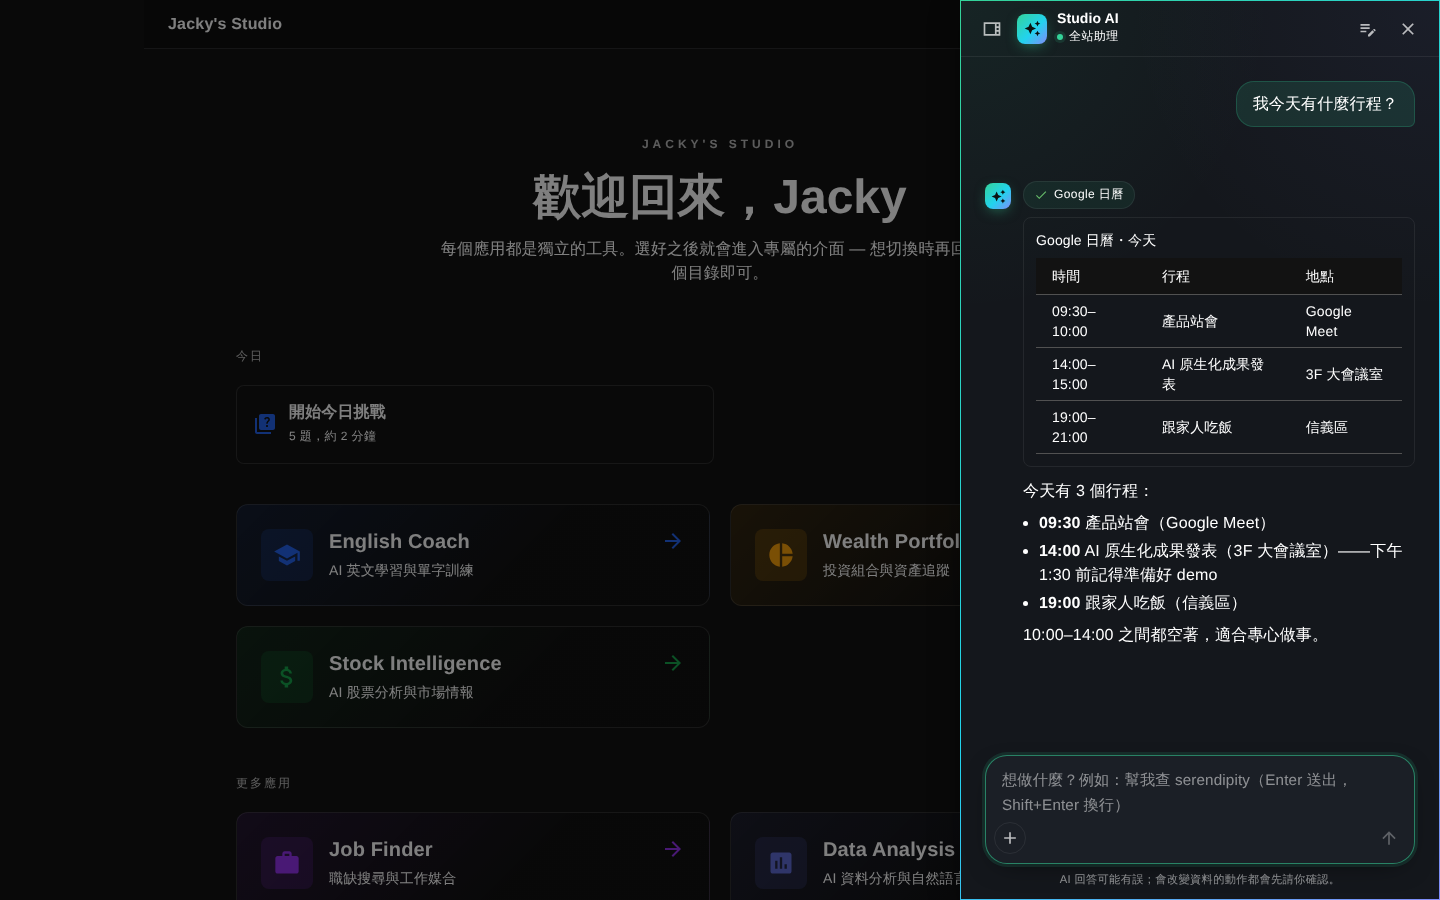
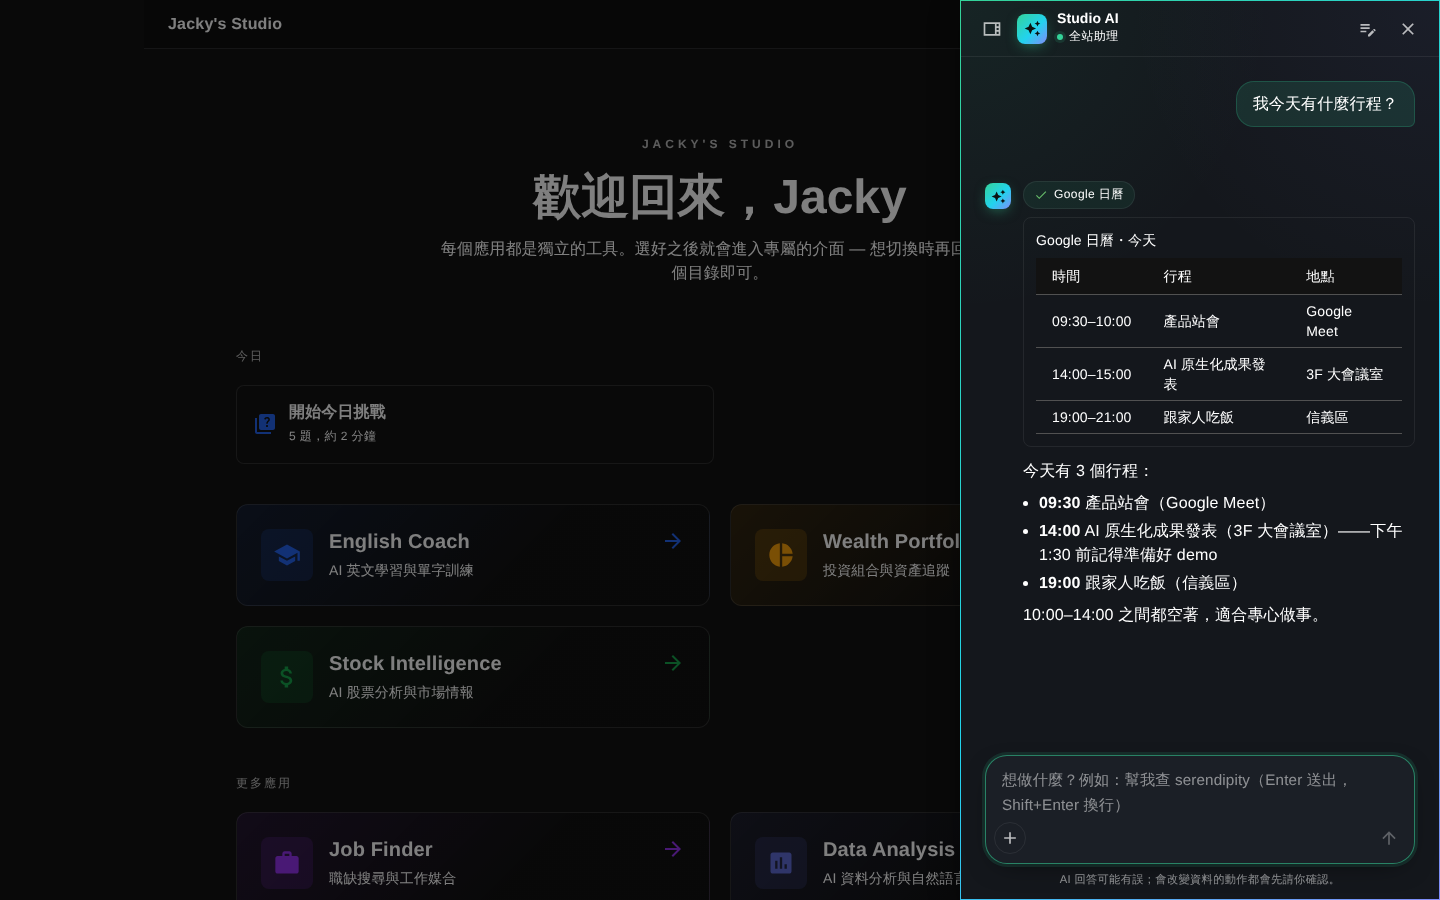
feat(chat): table 卡片的欄位可以 nowrap（Google 日曆的時間欄不再斷行）；第 7 輪的決策、FOR_JACKY、NEXT、PLAN、SHOWCASE 更新
Claude-Session: https://claude.ai/code/session_01TAYBdTx9BamhbvCMxUfzVg

diff --git a/jackyaiapp.client/src/components/aiChat/cards/toolCard.ts b/jackyaiapp.client/src/components/aiChat/cards/toolCard.ts
@@ -11,10 +11,18 @@ import type { ComponentType } from 'react';
 
 export type CardCell = string | number | null;
 
+export interface TableColumn {
+  key: string;
+  label: string;
+  numeric: boolean;
+  nowrap?: true;
+}
+
 export interface TableCard {
   kind: 'table';
   title: string | null;
-  columns: { key: string; label: string; numeric: boolean }[];
+  /** `nowrap`: a cell that reads wrong broken over lines (a time range). */
+  columns: TableColumn[];
   rows: Record<string, CardCell>[];
   /** The rows the tool found, when more than it sent. */
   totalRows: number | null;
@@ -77,8 +85,9 @@ function parseTable(raw: Record<string, unknown>): TableCard | null {
       key: text(c.key, 100),
       label: text(c.label, 100) ?? text(c.key, 100),
       numeric: c.numeric === true,
+      ...(c.nowrap === true ? { nowrap: true as const } : {}),
     }))
-    .filter((c): c is { key: string; label: string; numeric: boolean } => c.key !== null)
+    .filter((c): c is TableColumn => c.key !== null)
     .slice(0, CARD_LIMITS.columns);
   if (columns.length === 0) return null;
   const rows = raw.rows

diff --git a/jackyaiapp.client/src/components/aiChat/cards/toolCard.test.ts b/jackyaiapp.client/src/components/aiChat/cards/toolCard.test.ts
@@ -1,6 +1,6 @@
 import { describe, expect, it } from 'vitest';
 
-import { CARD_LIMITS, parseToolCard, safeHref } from './toolCard';
+import { CARD_LIMITS, parseToolCard, safeHref, type TableCard } from './toolCard';
 
 describe('parseToolCard: a table', () => {
   const raw = {
@@ -31,6 +31,20 @@ describe('parseToolCard: a table', () => {
       ],
       totalRows: 40,
     });
+  });
+
+  it('keeps a column that should not wrap, and only a true one', () => {
+    const card = parseToolCard({
+      ...raw,
+      columns: [
+        { key: 'region', label: '地區', nowrap: true },
+        { key: 'revenue', label: '營收', nowrap: 'yes' },
+      ],
+    });
+    expect((card as TableCard).columns).toEqual([
+      { key: 'region', label: '地區', numeric: false, nowrap: true },
+      { key: 'revenue', label: '營收', numeric: false },
+    ]);
   });
 
   it('turns anything but text and numbers into an empty cell', () => {

diff --git a/jackyaiapp.client/src/components/aiChat/cards/TableCardView.tsx b/jackyaiapp.client/src/components/aiChat/cards/TableCardView.tsx
@@ -41,7 +41,10 @@ export default function TableCardView({ card }: { card: TableCard }) {
                   <TableCell
                     key={c.key}
                     align={c.numeric ? 'right' : 'left'}
-                    sx={c.numeric ? { fontVariantNumeric: 'tabular-nums' } : undefined}
+                    sx={{
+                      ...(c.numeric && { fontVariantNumeric: 'tabular-nums' }),
+                      ...(c.nowrap && { whiteSpace: 'nowrap' }),
+                    }}
                   >
                     {show(row[c.key])}
                   </TableCell>

diff --git a/JackyAIApp.Server.Tests/Services/Connectors/GoogleCalendarToolTests.cs b/JackyAIApp.Server.Tests/Services/Connectors/GoogleCalendarToolTests.cs
@@ -114,6 +114,8 @@ namespace JackyAIApp.Server.Tests.Services.Connectors
             Assert.False(result.IsError);
             var card = CardJson(result);
             Assert.Equal("table", card.GetProperty("kind").GetString());
+            // A time range reads wrong broken over two lines in the assistant's narrow sheet.
+            Assert.True(card.GetProperty("columns")[0].GetProperty("nowrap").GetBoolean());
             var rows = card.GetProperty("rows").EnumerateArray()
                 .Select(r => (r.GetProperty("when").GetString()!, r.GetProperty("title").GetString()!, r.GetProperty("location").GetString()!))
                 .ToList();

diff --git a/JackyAIApp.Server/Services/Connectors/Google/GoogleCalendarTool.cs b/JackyAIApp.Server/Services/Connectors/Google/GoogleCalendarTool.cs
@@ -112,7 +112,7 @@ namespace JackyAIApp.Server.Services.Connectors.Google
             title = $"Google 日曆・{range.Label}",
             columns = new object[]
             {
-                new { key = "when", label = "時間" },
+                new { key = "when", label = "時間", nowrap = true },
                 new { key = "title", label = "行程" },
                 new { key = "location", label = "地點" },
             },

diff --git a/docs/ai-native/NEXT.md b/docs/ai-native/NEXT.md
@@ -1,6 +1,6 @@
 # NEXT — 下一輪從最上面開始
 
-> 設計已定稿（PLAN.md）。M1、M2 完成；M3 大致完成（Studio AI、本站工具、MCP OAuth、Notion／Linear 目錄）。接下來是 M4（擴充與貢獻）與打磨；11/4 起功能凍結。
+> 設計已定稿（PLAN.md）。M1–M3 完成；M4 必要項目完成（第 7 輪：TestKit、Google 日曆、step-up、確認卡「以後直接執行」、rug pull 防護）。接下來是 M4 延伸與打磨；11/4 起功能凍結。
 
 ## 0. 每輪固定動作
 
@@ -11,20 +11,27 @@
 
 ## 1. CI 狀態
 
-- 第 6 輪最後一次含程式碼的 push 是「確認卡顯示工具自己的說明」（見 PROGRESS 第 6 輪的 run id）。開工時照 §0 看最新一次。
+- 第 7 輪最後一次含程式碼的 push 是「防 rug pull」（見 PROGRESS 第 7 輪的 run id）。開工時照 §0 看最新一次。
 
 ## 2. 下一步（依序）
 
-1. **M4：TestKit 與貢獻樣板**（design/07）：把測試裡重複的假 MCP server（`McpToolClientTests.FakeMcpServer`）與假網站（`McpOAuthDiscoveryTests.FakeWeb`）整理成 `TestHelpers/FakeMcpServer`、`TestHelpers/FakeAuthorizationServer`（一個 handler 同時扮 MCP server 401 + PRM + AS + token 端點），寫一個「完整 OAuth 流程」的整合測試（probe → create → authorize → callback → 列工具 → refresh），並在 CONTRIBUTING-CONNECTORS 提到它。
-2. **Google Calendar 原生範例（M4）**：沿用既有 Google 帳號連線（`ConnectorService` 的 token），做一個 `ISiteTool` 型的原生 connector（列出今天／這週行程，唯讀）。先確認既有 Google 連線的 scope 是否含 Calendar（`appsettings.json` 的 `Connectors:Providers:Google:Scopes`）；不含的話只做框架與假實作，FOR_JACKY 註記要加 scope。
-3. **403 step-up**（MCP 授權，可選）：工具呼叫回 403 `insufficient_scope` 時把 `scope` 併進 grant 並標 NeedsAuth，重新授權時帶新 scope。需要從 `McpToolClient` 拿到 `WWW-Authenticate`（SDK 的例外沒有 header：可能要在 `IMcpHttpHandlerSource` 包一層 DelegatingHandler 記下最後一個 401/403 的 header）。
-4. **打磨**：Studio 在 /data-analysis 以外問資料問題時的引導；`ConnectorDetailDrawer` 的「測試連線」用 playwright 走一次；/connectors 的 OAuth 回呼訊息（現在是既有的英文訊息）考慮對 AI connector 顯示中文。
-5. **SHOWCASE 定稿**（11/4–11/5）：補 Data Analysis 存 dashboard 的確認卡截圖、手機截圖、最終統計（輪數、commit 數）。
+M4 的必要項目都完成了（TestKit、Google 日曆原生範例、CONTRIBUTING、CLAUDE.md），403 step-up 也做了。剩下的是 M4 延伸（挑最驚艷的一個做深）與打磨；11/4 起功能凍結。
+
+1. **本站對外的 MCP server（M4 延伸，建議先做）**：讓 Claude Desktop／Cursor／ChatGPT 直接用 Jacky Studio 的工具（`ISiteTool` 全部：查字典、加單字、學習進度、投資組合、Google 日曆）——「網站本身就是 MCP server」。
+   - 先研究：`ModelContextProtocol.AspNetCore`（官方 SDK 的 server 端，版本要跟 csproj 裡的 `ModelContextProtocol.Core` 一致；本機不能 restore，加套件後靠 CI 驗證，cscheck 抓不到它的型別）。不能用就自己寫最小 Streamable HTTP server（`initialize`、`tools/list`、`tools/call`，JSON 回應、無 session）。
+   - 認證：個人存取 token（PAT，使用者在 /connectors 產生、只顯示一次、存 SHA-256 雜湊；新表要手寫 migration＋Designer＋snapshot），`Authorization: Bearer`。之後再考慮 OAuth（要自己當授權伺服器，太大）。
+   - 安全：寫入型工具在外部 client 上沒有本站的確認卡 → **只開放讀取型工具**，或寫入要求 PAT 有 write 範圍；usage 照 `UsageCosts`；每個 PAT 可撤銷、記最後使用時間。
+   - UX：/connectors 新增一區「讓其他 AI 使用本站」：產生 token、複製設定（Claude Desktop 的 JSON、`claude mcp add` 指令）。
+2. **或：MCP Apps**（`ui://` 資源在 sandboxed iframe 顯示）：比較炫但規格新、client 端複雜（postMessage bridge、CSP）。上面那項做完還有時間再評估。
+3. **打磨**：
+   - playwright 走一次 /connectors：「本站功能」下多了「Google 日曆」組、`ConnectorDetailDrawer` 的「測試連線」、OAuth 回呼的中文訊息（`?success=true&provider=Notion&kind=mcp`）。
+   - Studio 在 /data-analysis 以外問資料問題時的引導（提示已說到 /data-analysis 問，可加 open_page 範例）。
+4. **SHOWCASE 定稿**（11/4–11/5）：補 Data Analysis 存 dashboard 的確認卡截圖、手機截圖、最終統計（輪數、commit 數）。
 
 ## 3. 已經做好的零件
 
-- 後端：`SafeHttp`、`OutboundAddressPolicy`、`McpServerUrl`、`ToolNames`、`IChatProfile`／`ChatTurnRequest`、agent loop（`ClientToolRunner`：確認、權限、taint、卡片守門）、`ChatApprovalRegistry`、`ConnectorInstallations`＋`ConnectorCatalogService`／`ConnectorInstallService`／`ConnectorToolSource`／`ConnectorSecrets`／`McpToolClient`、`BuiltInMcpConnectors`（tw-stock、DeepWiki、Notion、Linear）、**MCP OAuth**（`McpOAuthDiscovery`、`McpOAuthFlow`、`McpOAuthTokens`、`McpOAuthEndpoints`、`McpOAuthUrls`、`McpOAuthCallbackController`）、`SiteToolSet`／`ISiteTool`、`StudioChatProfile`＋`OpenPageTool`、English 的 `WordTools`／`LearningProgressTool`、Portfolio 的 `PortfolioSummaryTool`、Data Analysis 的 `AskDataTool`／`DescribeDataTool`／`SaveToDashboardTool`＋`DataAnalysisCharts`。
-- 前端：`components/aiChat`（`AiChatConfig`、`variant="sheet"`、ToolActivity、ApprovalCard、卡片）、`components/StudioAssistant`、/connectors v2（含 OAuth 路徑）、/data-analysis 的 AI 對話。
+- 後端：`SafeHttp`、`OutboundAddressPolicy`、`McpServerUrl`、`ToolNames`、`IChatProfile`／`ChatTurnRequest`、agent loop（`ClientToolRunner`：確認、權限、taint、卡片守門）、`ChatApprovalRegistry`、`ConnectorInstallations`＋`ConnectorCatalogService`／`ConnectorInstallService`／`ConnectorToolSource`／`ConnectorSecrets`／`McpToolClient`、`BuiltInMcpConnectors`（tw-stock、DeepWiki、Notion、Linear）、**MCP OAuth**（`McpOAuthDiscovery`、`McpOAuthFlow`、`McpOAuthTokens`、`McpOAuthEndpoints`、`McpOAuthUrls`、`McpOAuthCallbackController`）、`SiteToolSet`／`ISiteTool`、`StudioChatProfile`＋`OpenPageTool`、English 的 `WordTools`／`LearningProgressTool`、Portfolio 的 `PortfolioSummaryTool`、Data Analysis 的 `AskDataTool`／`DescribeDataTool`／`SaveToDashboardTool`＋`DataAnalysisCharts`、Connectors 的 `GoogleCalendarTool`（原生 connector）、`AiToolDescriptor.OutsideText`、step-up（`McpServerException.RequiredScope`）、`CachedTools.Changed`（rug pull）。測試的假網路在 `TestHelpers`：`FakeMcpServer`、`FakeAuthorizationServer`、`FakeWeb`、`TestStateService`；本站工具的一致性由 `SiteToolDefinitionsTests` 檢查。
+- 前端：`components/aiChat`（`AiChatConfig`、`variant="sheet"`、ToolActivity、ApprovalCard〔含「以後直接執行」〕、卡片）、`Connectors/callbackNotice`、`components/StudioAssistant`、/connectors v2（含 OAuth 路徑）、/data-analysis 的 AI 對話。
 
 ## 4. 之後
 

diff --git a/docs/ai-native/DECISIONS.md b/docs/ai-native/DECISIONS.md
@@ -40,3 +40,8 @@
 - **D-036（2026-10-24 14:20）`save_to_dashboard` 用 ask_data 的 chartId，不重新查詢**：圖表的 plan 以短 id 暫存在記憶體（依使用者與對話分開，2 小時），模型只能存使用者看過的圖、不能自己寫 plan，也不會重複收費。重啟後 id 失效，模型會被告知先重新查一次。
 - **D-037（2026-10-24 14:20）目錄加入 Notion、Linear（OAuth）**：兩者都是 Streamable HTTP、支援 DCR 與 PKCE（官方文件）。session 連不到外網，**沒有實測**；合併後請 Jacky 在 production 試一次（FOR_JACKY 7）。
 - **D-038（2026-10-24 14:20）Portfolio 工具是唯讀、預設自動**：使用者問自己的資產時才會被呼叫；送給模型的是本站已估值的數字（不含交易明細）。想更保守的人可以在 Connectors 把它設成「需確認」或停用。
+- **D-039（2026-10-24 16:00）Google 日曆是「本站工具」型的原生 connector**（`ISiteTool`，connector 是 `site`，Connectors 頁「本站功能」下的「Google 日曆」組），不另做一種 connector 列：權限沿用現成的 site 設定，token 用既有 Google 帳號連線（scope 原本就有 `calendar.readonly`）。為了不讓行事曆邀請（別人能寫的字）繞過 taint，`AiToolDescriptor` 加 `OutsideText`：本站工具的結果含外部文字時，跟外部 connector 一樣讓這輪之後的寫入一律先問。沒連線時不是錯誤，回連結卡到 /connectors。
+- **D-040（2026-10-24 16:05）MCP step-up：403 `insufficient_scope` → 把 scope 併進登入、標 NeedsAuth、保留 token**（其他工具照用），重新授權時一起要；scope token 只收 RFC 6749 NQCHAR、合計最多 1000 字。SDK 的例外沒有 header，所以 `McpToolClient` 用 DelegatingHandler 記下拒絕的 `WWW-Authenticate`。
+- **D-041（2026-10-24 16:20）確認卡的「以後直接執行」只給本站工具的寫入、而且這段對話沒讀過外部內容**：外部 connector 的工具名是每輪的 `m1__…`，要到 Connectors 頁調；無法復原的永遠要問；讀過外部內容後伺服器反正都會問。勾了且按允許才設成自動（同 `PUT tool-permissions`）。
+- **D-042（2026-10-24 16:25）rug pull 防護只把「使用者明確設成自動」的工具改回需確認**：重新列工具時標題、說明、schema（以 JSON 重寫比較）或效果變了才算。預設自動的讀取不動（讀取的結果本來就會 taint 這輪，寫入一律先問），避免伺服器一更新說明就打擾使用者。
+- **D-043（2026-10-24 16:10）MCP OAuth 回呼帶 `kind=mcp`**：/connectors 對 AI connector 用中文說明結果與下一步；帳號連線（Google／Microsoft／Atlassian）的英文訊息不變（頁面既有測試鎖住）。

diff --git a/docs/ai-native/SHOWCASE.md b/docs/ai-native/SHOWCASE.md
@@ -15,7 +15,7 @@
 | /data-analysis 最上方的 AI 對話：問問題 → **互動圖表** → 「存到業績追蹤 dashboard」→ 確認 → 完成 | `ask_data`（沿用 問 AI 的檢查過的查詢管線）、`describe_data`、`save_to_dashboard` | AI 只用經過驗證的查詢，不自己寫 SQL |
 | **Connectors**：目錄一鍵加入 tw-stock、DeepWiki；貼任何 MCP URL 自動偵測登入方式 | MCP 官方 SDK（Streamable HTTP）、SafeHttp 防 SSRF | MCP 是 AI 接工具的標準 |
 | 需要登入的 MCP server：**自動跑完 MCP 授權規格** | 401 → PRM（RFC 9728）→ AS metadata（RFC 8414／OIDC）→ DCR／CIMD／手填 client → PKCE S256 + `resource` + `iss` → token 加密 → 到期自動 refresh → 403 `insufficient_scope` 時 step-up | 2025-11 起的 MCP 授權規格（PRM、CIMD、RFC 8707 resource、RFC 9207 iss） |
-| 每個工具「自動／需確認／停用」；讀過外部資料後的寫入一律先問 | `ToolPermissions`、taint（D-031）、工具結果包成不可信資料 | prompt injection 防護 |
+| 每個工具「自動／需確認／停用」；確認卡可勾「以後直接執行」；讀過外部資料（含行事曆邀請）後的寫入一律先問；工具說明被改了就改回需確認 | `ToolPermissions`、taint（D-031、`OutsideText`）、工具結果包成不可信資料、`CachedTools.Changed`（rug pull） | prompt injection 與 tool poisoning 防護 |
 | /finance 的 Stock Intelligence：**行為不變** | 同一套共用 chat（`FinanceChatRequestTests` 逐欄位鎖住） | — |
 
 ## Demo 腳本（約 8 分鐘）

diff --git a/docs/ai-native/PLAN.md b/docs/ai-native/PLAN.md
@@ -5,7 +5,7 @@
 ## 狀態
 
 - 設計：**設計定稿**（2026-10-24 04:10，經一次對抗式評審並修正；之後的調整記在 DECISIONS.md）。
-- 階段：1（開發）。M1、M2 完成；**M3 大致完成（10/24，提早）**：Studio AI（⌘K）、本站工具（字典、單字庫、學習進度、投資組合、open_page）、Data Analysis 用說的存 dashboard、**MCP OAuth**（PRM／AS metadata／DCR／CIMD／手填、PKCE、resource、iss、refresh）、目錄的 Notion／Linear。剩 403 step-up（可選）。SHOWCASE 初稿已寫。所有後端變更都由 branch CI 驗證（綠）。
+- 階段：1（開發）。M1、M2 完成；**M3 大致完成（10/24，提早）**：Studio AI（⌘K）、本站工具（字典、單字庫、學習進度、投資組合、open_page）、Data Analysis 用說的存 dashboard、**MCP OAuth**（PRM／AS metadata／DCR／CIMD／手填、PKCE、resource、iss、refresh）、目錄的 Notion／Linear。**M4 必要項目完成（10/24 第 7 輪）**：TestKit（假 MCP server／授權伺服器、完整 OAuth 整合測試、本站工具一致性測試）、Google 日曆原生 connector、403 step-up、確認卡「以後直接執行」、rug pull 防護。SHOWCASE 初稿已寫。所有後端變更都由 branch CI 驗證（綠）。
 
 ## 目標
 

diff --git a/docs/ai-native/FOR_JACKY.md b/docs/ai-native/FOR_JACKY.md
@@ -10,3 +10,4 @@
 5. **Connectors 重新放回首頁 portal**（D-011／D-020）：原本因 Google 帳號連線的 scope 問題隱藏，帳號連線那一塊沒有改。不想顯示的話把 `apps.tsx` 的 `portalDestinations` 拿掉 `CONNECTORS`。
 6. **Studio AI 會呼叫你的 Anthropic key**（每則訊息照既有 chat 收費），字典查不到的字會由 OpenAI 產生一次（與字典頁相同）。
 7. **合併後實測 Notion／Linear 的 OAuth 一鍵授權**（D-037）：開發環境連不到它們，流程只用假的授權伺服器測過。失敗時 /connectors 的 connector 會顯示原因（OAuth 錯誤碼），請把畫面上的訊息記下來。
+8. **Google 日曆（Studio AI 的 `google_calendar_events`）用的是既有 Google 帳號連線**，scope 原本就有 `calendar.readonly`，不用改設定。合併後請用自己的帳號在 /connectors 連一次 Google，再問 Studio「我今天有什麼行程？」確認 production 的 Google OAuth app 真的有日曆權限（若 Google 回 403，工具會請使用者重新連線；那就要到 Google Cloud Console 確認 OAuth consent screen 的 scope 與 Calendar API 已啟用）。
